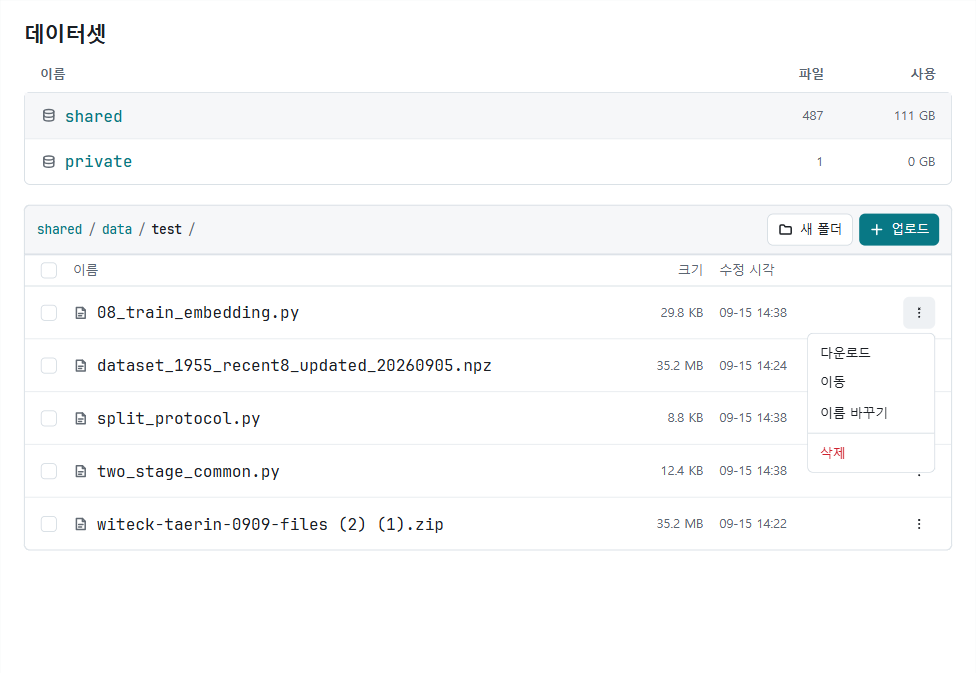
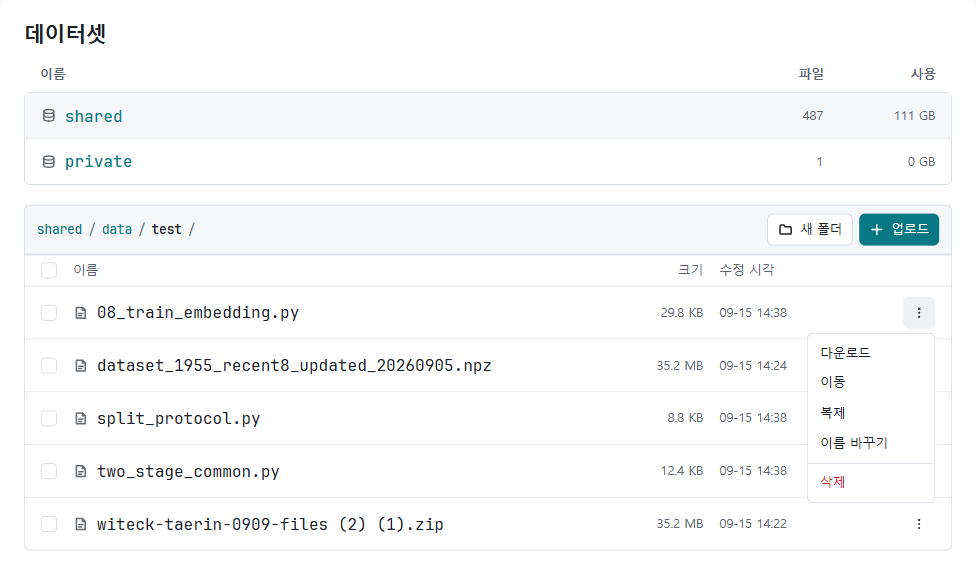
fix: keep documentation screenshots inline and close to instructions

diff --git a/src/styles/global.js b/src/styles/global.js
@@ -28,6 +28,23 @@ const globalStyles = css`
     margin: 0;
   }
 
+  /* Keep screenshots next to their headings and instructions. */
+  p:has(.gatsby-resp-image-wrapper) {
+    margin: 12px 0;
+  }
+
+  p:has(.gatsby-resp-image-wrapper) + p,
+  p:has(.gatsby-resp-image-wrapper) + ol,
+  p:has(.gatsby-resp-image-wrapper) + ul,
+  p:has(.gatsby-resp-image-wrapper) + table {
+    margin-top: 12px;
+  }
+
+  h2:has(+ p .gatsby-resp-image-wrapper),
+  h3:has(+ p .gatsby-resp-image-wrapper) {
+    margin-bottom: 12px;
+  }
+
   /* https://github.com/gatsbyjs/gatsby/issues/15486 */
   .gatsby-resp-image-image {
     width: 100%;

diff --git a/gatsby-config.js b/gatsby-config.js
@@ -47,7 +47,7 @@ module.exports = {
             options: {
               maxWidth: 1200,
               quality: 80,
-              linkImagesToOriginal: true,
+              linkImagesToOriginal: false,
               disableBgImageOnAlpha: true
             }
           },
